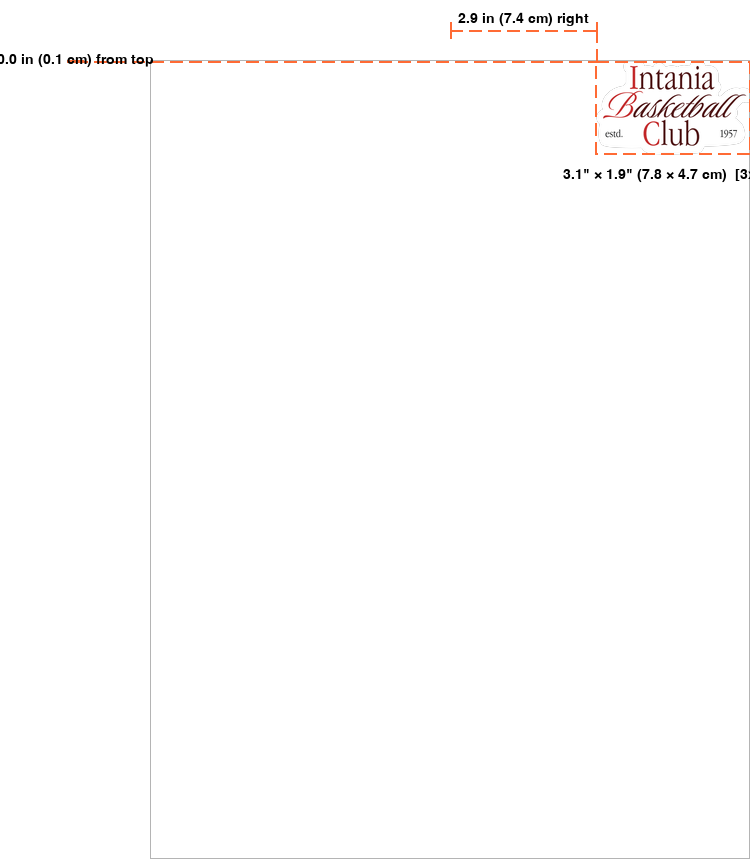
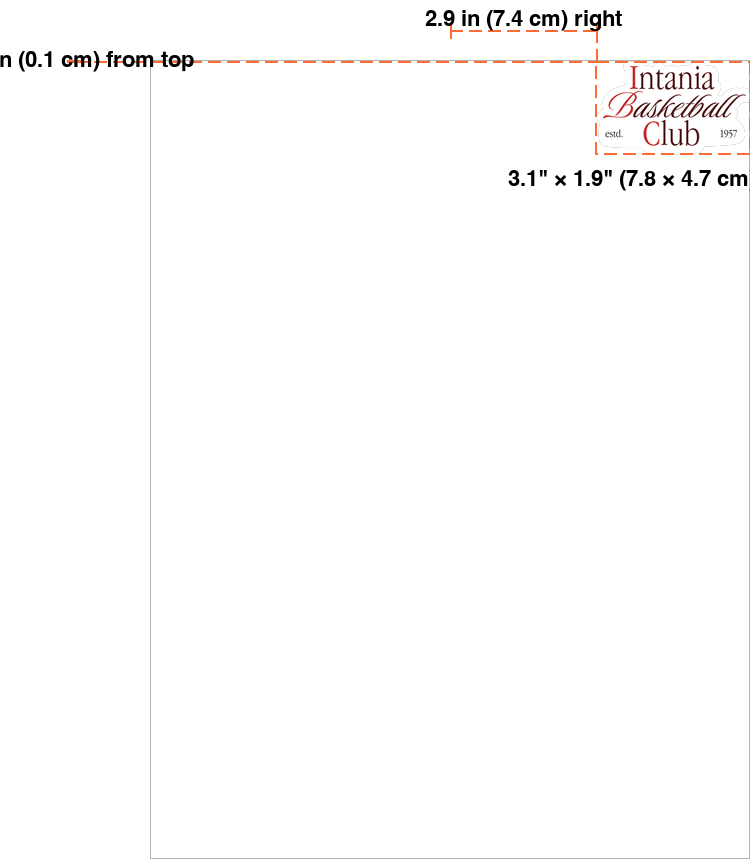
refactor: update print placement coordinates, collar offsets, and annotation styling parameters

Changed region(s): [[0.6747, 0.1816, 1.0, 0.2119], [0.552, 0.0, 0.828, 0.0303], [0.0, 0.0605, 0.276, 0.0908]]

diff --git a/tools/annotate_print.py b/tools/annotate_print.py
@@ -42,16 +42,16 @@ MOCKUP_IMAGE_PATH = "/Volumes/My Passport/Personal_Project/PimSuea/tools/test_da
 _MOCKUP_W = 2048
 _MOCKUP_H = 1742
 _PLACEMENTS = {
-    "front": {"x": 647, "y": 431, "w": 716, "h": 955},
-    "back":  {"x": 647, "y": 287, "w": 716, "h": 955},
+    "front": {"x": 668, "y": 431, "w": 716, "h": 955},
+    "back":  {"x": 668, "y": 287, "w": 716, "h": 955},
 }
 
 # Back side only: leftmost pixel of the shirt body in the back mockup image.
 # Used as the reference point for horizontal offset (instead of shirt center).
-BACK_SHIRT_LEFT_PX = 169
+BACK_SHIRT_LEFT_PX = 420
 
 # Collar positions in each mockup image (px from the top of the image)
-COLLAR_Y = {"front": 223, "back": 144}
+COLLAR_Y = {"front": 252, "back": 108}
 # Fixed real-world distance from collar to the top of the print area
 COLLAR_TO_PRINT_AREA_IN = 3.0
 
@@ -63,7 +63,7 @@ SHOW_TAG           = False                      # ← toggle tag on/off globally
 TAG_IMAGE_PATH     = "/Volumes/My Passport/Personal_Project/PimSuea/tools/templates/Tag.png"                   # e.g. "tools/assets/tag.png"
 TAG_PHYS_W_IN      = 1.5                   # physical width of the tag (inches)
 TAG_SRC_W, TAG_SRC_H = 2400, 1212            # source image px — gives aspect ratio
-TAG_COLLAR_Y_FRONT = 134                   # px from top of front mockup where collar sits
+TAG_COLLAR_Y_FRONT = 104                   # px from top of front mockup where collar sits
 TAG_OFFSET_IN      = 0.5                   # inches below collar to place tag top edge
 # ─────────────────────────────────────────────────────────────────────────────
 
@@ -75,16 +75,16 @@ WHITE       = (255, 255, 255, 255)
 DASH_LEN    = 12
 GAP_LEN     = 7
 LINE_W      = 2
-FONT_SIZE   = 14
+FONT_SIZE   = 22
 PAD         = 14        # spacing between annotation lines and the bounding box
 TICK        = 8         # tick mark half-length
 PREVIEW_DIV = 6         # downscale divisor: 3600/6 = 600px wide preview
 MARGIN_LEFT = 150       # left margin reserved for Y measurement line + label
 MARGIN_TOP  = 60        # top margin reserved for X offset line + label
 SIDE_PAD_LEFT      = 30   # gap between mockup right edge and side graphic
-SIDE_PPI           = 30   # display scale for side graphic (px per inch) — keeps all graphics proportional
+SIDE_PPI           = 55   # display scale for side graphic (px per inch) — keeps all graphics proportional
 SIDE_MIN_PX        = 60   # minimum side graphic dimension in px (prevents tiny logos being unreadable)
-SIDE_MARGIN_RIGHT  = 120  # room for height bracket + label to the right
+SIDE_MARGIN_RIGHT  = 180  # room for height bracket + label to the right
 SIDE_MARGIN_BOTTOM = 50   # room for width bracket + label below
 
 # ─── COMBINE CONFIG ──────────────────────────────────────────────────────────
